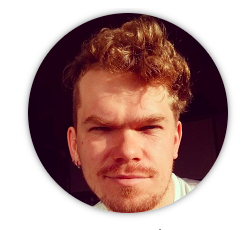
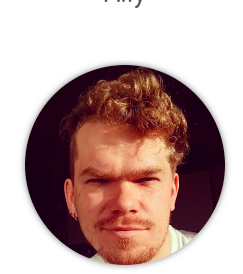
final css

diff --git a/public/js/bundle.js b/public/js/bundle.js
@@ -133,7 +133,7 @@ eval("const PubSub = __webpack_require__(/*! ../helpers/pub_sub.js */ \"./src/he
 /*! no static exports found */
 /***/ (function(module, exports, __webpack_require__) {
 
-eval("const PubSub = __webpack_require__(/*! ../helpers/pub_sub.js */ \"./src/helpers/pub_sub.js\");\n\n\nconst IdentityView = function (container, identity) {\n  this.container = container;\n  this.identity = identity;\n};\n\nIdentityView.prototype.bindEvents = function () {\n  PubSub.subscribe('Identities:data-ready', (evt) => {\n    this.identity = evt.detail;\n    this.displayIdentity(event.detail);\n  });\n};\n\nIdentityView.prototype.displayIdentity = function (data) {\n\n  const newIdContainer = document.createElement('div');\n  const newImageContainer = document.createElement('div');\n  const newInfoContainer = document.createElement('div');\n  const container = document.querySelector('#identity');\n  newIdContainer.classList.add('new-id-container');\n  newImageContainer.classList.add('new-image-container');\n  newInfoContainer.classList.add('new-info-container');\n\n  container.innerHTML = '';\n\n  const nameInfo = document.createElement('li');\n  const ageInfo = document.createElement('li');\n  const birthdayInfo = document.createElement('li');\n  const mobileInfo = document.createElement('li');\n  const countryInfo = document.createElement('li');\n  const image = document.createElement('img');\n\n  nameInfo.textContent = data.name + \" \" + data.surname;\n  ageInfo.textContent = data.age;\n  birthdayInfo.textContent = data.birthday.dmy;\n  mobileInfo.textContent = data.phone;\n  countryInfo.textContent = data.region;\n  image.src = data.src\n\n  newIdContainer.appendChild(nameInfo)\n  newIdContainer.appendChild(ageInfo)\n  newIdContainer.appendChild(birthdayInfo)\n  newIdContainer.appendChild(mobileInfo)\n  newIdContainer.appendChild(countryInfo)\n  newImageContainer.appendChild(image)\n\n  newInfoContainer.appendChild(newIdContainer);\n  newInfoContainer.appendChild(newImageContainer);\n\n  container.appendChild(newInfoContainer);\n\n};\n\nmodule.exports = IdentityView;\n\n\n//# sourceURL=webpack:///./src/views/identity_view.js?");
+eval("const PubSub = __webpack_require__(/*! ../helpers/pub_sub.js */ \"./src/helpers/pub_sub.js\");\n\n\nconst IdentityView = function (container, identity) {\n  this.container = container;\n  this.identity = identity;\n};\n\nIdentityView.prototype.bindEvents = function () {\n  PubSub.subscribe('Identities:data-ready', (evt) => {\n    this.identity = evt.detail;\n    this.displayIdentity(event.detail);\n  });\n};\n\nIdentityView.prototype.displayIdentity = function (data) {\n\n  const newIdContainer = document.createElement('div');\n  const newImageContainer = document.createElement('div');\n  const newInfoContainer = document.createElement('div');\n  const newIdentityContainer = document.createElement('div');\n  const container = document.querySelector('#identity');\n  newIdContainer.classList.add('new-id-container');\n  newIdentityContainer.classList.add('new-identity-container');\n  newImageContainer.classList.add('new-image-container');\n  newInfoContainer.classList.add('new-info-container');\n\n  container.innerHTML = '';\n\n  const nameInfo = document.createElement('li');\n  const ageInfo = document.createElement('li');\n  const birthdayInfo = document.createElement('li');\n  const mobileInfo = document.createElement('li');\n  const countryInfo = document.createElement('li');\n  const image = document.createElement('img');\n\n  nameInfo.textContent = data.name + \" \" + data.surname;\n  ageInfo.textContent = data.age;\n  birthdayInfo.textContent = data.birthday.dmy;\n  mobileInfo.textContent = data.phone;\n  countryInfo.textContent = data.region;\n  image.src = data.src\n\n  newIdContainer.appendChild(nameInfo)\n  newIdContainer.appendChild(ageInfo)\n  newIdContainer.appendChild(birthdayInfo)\n  newIdContainer.appendChild(mobileInfo)\n  newIdContainer.appendChild(countryInfo)\n  newImageContainer.appendChild(image)\n\n  newInfoContainer.appendChild(newIdContainer);\n  newInfoContainer.appendChild(newImageContainer);\n\n  container.appendChild(newInfoContainer);\n\n};\n\nmodule.exports = IdentityView;\n\n\n//# sourceURL=webpack:///./src/views/identity_view.js?");
 
 /***/ })
 

diff --git a/public/css/style.css b/public/css/style.css
@@ -2,7 +2,12 @@ body {
   font-family: Arial;
   background-image: url("../images/spanishflag.png");
   background-repeat: repeat;
+}
 
+.new-info-container{
+  display: flex;
+  flex-direction: row;
+  justify-content: center;
 }
 
 #identity li{
@@ -16,20 +21,17 @@ body {
   color: white;
   text-align: center;
   opacity: 0.75;
-
-
 }
 
-
-#new-info-container{
-  display: inline;
-}
-
-#img {
+img {
   border: 10px solid black;
-  width: 400px;
-  height: 400px;
   padding: 30px;
+  position: relative;
+  float: left;
+  width:  220px;
+  height: 280px;
+  margin-left: 20px;
+
 }
 
 .gender-button {
@@ -38,6 +40,7 @@ body {
   font-size: 40px;
   margin: 20px;
   background-color: lightblue;
+  border: 1px solid black;
 
 }
 
@@ -52,10 +55,13 @@ body {
 
 #logo {
 font-size: 60px;
-justify-content: center;
 background-color: white;
 opacity: 0.75;
-align-content: center;
+text-align: center;
+}
 
-
+#genders{
+  display: flex;
+  flex-direction: row;
+  justify-content: center;
 }

diff --git a/src/views/identity_view.js b/src/views/identity_view.js
@@ -18,8 +18,10 @@ IdentityView.prototype.displayIdentity = function (data) {
   const newIdContainer = document.createElement('div');
   const newImageContainer = document.createElement('div');
   const newInfoContainer = document.createElement('div');
+  const newIdentityContainer = document.createElement('div');
   const container = document.querySelector('#identity');
   newIdContainer.classList.add('new-id-container');
+  newIdentityContainer.classList.add('new-identity-container');
   newImageContainer.classList.add('new-image-container');
   newInfoContainer.classList.add('new-info-container');
 

diff --git a/public/index.html b/public/index.html
@@ -14,8 +14,9 @@
     <div id="genders"></div>
       </header>
 
+      <div class="newidentitycontainer">
+        <div id="identity"></div>
+      </div>
 
-      <ul id="identity"></ul>
-      <img src="" alt="">
   </body>
 </html>
